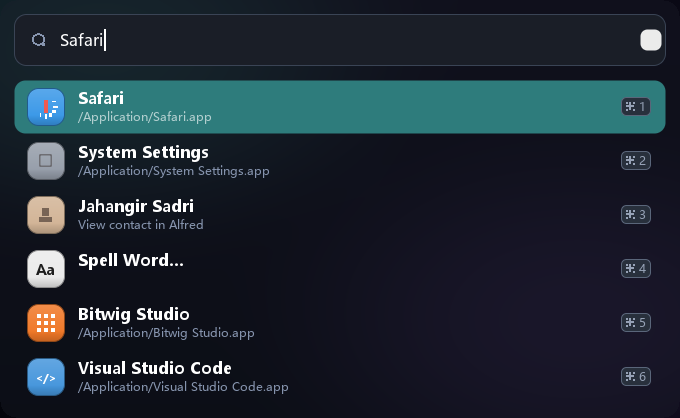
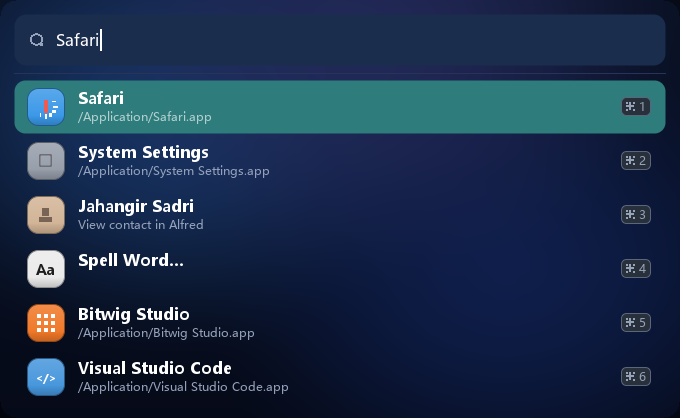
style: 毛玻璃透出增强 + 搜索框去边框/空态优化 (1.1.61)
- 搜索框删掉独立实色块+亮描边(空态浮在玻璃上的方框很难看)，改为融入玻璃的
  极淡提亮；搜索区/结果区之间改用一条极淡 hairline 分区(参考 Raycast 2.0)
- 空态放大镜+placeholder 压淡去蓝偏色，安静融入玻璃
- ApplyGlass: tint alpha 0xC8->0x50、整窗 alpha 232->208、tint 染蓝紫，
  让 DWM 模糊壁纸透出从 ~2% 提到 ~13%
- 渲染器支持 --empty 空态、壁纸 bloom+高斯模糊模拟真机毛玻璃

diff --git a/tools/render_preview.py b/tools/render_preview.py
@@ -7,7 +7,7 @@ flowtary 主窗离屏渲染器 —— 复刻 main.cpp Paint() 的几何/颜色/S
 """
 import sys, math
 import numpy as np
-from PIL import Image, ImageDraw, ImageFont
+from PIL import Image, ImageDraw, ImageFont, ImageFilter
 
 # ---------------- 布局参数（逻辑像素，与 main.cpp 同步） ----------------
 LAYOUT = dict(
@@ -17,6 +17,7 @@ LAYOUT = dict(
     winBottomPad=14,      # 列表底部到窗口底
     searchH=52,           # 搜索框高度
     searchRadius=12,      # 搜索框圆角
+    dividerH=1,           # 搜索区/结果区之间的极淡 hairline
     gapSearchList=14,     # 搜索框底 → 列表第一项顶
     rowH=54,              # 行高
     selRadius=11,         # 选中胶囊圆角
@@ -30,24 +31,28 @@ LAYOUT = dict(
 )
 
 THEME_NAME = sys.argv[1] if len(sys.argv) > 1 else 'obsidian'
+EMPTY = '--empty' in sys.argv   # 空态：只有搜索框，无结果列表
 THEMES = {
  'obsidian': dict(
-    dark=True, glass=(13,15,20), glassA=0.72,
-    text=(255,255,255), textSec=(136,150,176),
-    searchBg=(26,30,39), searchBorder=(58,68,85),
+    dark=True, glass=(14,17,24), glassA=0.62,
+    text=(255,255,255), textSec=(150,163,188),
+    searchBg=(30,35,45), searchBorder=(58,68,85),
     selFill=(46,124,124), selText=(255,255,255),
     badgeBg=(40,48,60), badgeBorder=(90,102,122), badgeText=(150,162,182),
     accent=(64,134,196), accent2=(94,162,224),
-    wall_top=(26,22,52), wall_bot=(10,14,30), wall_glow=[(0.15,0.12,(64,150,150)),(0.85,0.78,(96,64,150))],
+    # 壁纸：Windows 11 bloom 风格的蓝紫流动壁纸，毛玻璃透出用
+    wall_top=(18,30,62), wall_bot=(8,14,34),
+    wall_glow=[(0.28,0.30,(48,110,205)),(0.72,0.62,(30,60,150)),(0.55,0.15,(70,80,170))],
     fontList=15),
  'classic': dict(
-    dark=True, glass=(10,10,12), glassA=0.76,
-    text=(255,255,255), textSec=(150,150,150),
-    searchBg=(28,28,30), searchBorder=(70,70,72),
+    dark=True, glass=(12,12,15), glassA=0.66,
+    text=(255,255,255), textSec=(155,155,158),
+    searchBg=(30,30,33), searchBorder=(70,70,72),
     selFill=(46,124,124), selText=(255,255,255),
     badgeBg=(38,38,40), badgeBorder=(90,90,92), badgeText=(150,150,150),
     accent=(64,134,196), accent2=(94,162,224),
-    wall_top=(30,26,34), wall_bot=(8,10,16), wall_glow=[(0.2,0.15,(60,70,130)),(0.8,0.8,(100,50,90))],
+    wall_top=(22,28,48), wall_bot=(8,10,20),
+    wall_glow=[(0.25,0.35,(50,70,150)),(0.78,0.60,(90,45,120))],
     fontList=15),
 }
 T = THEMES[THEME_NAME]
@@ -129,22 +134,32 @@ def text(x, y, s, size, col, bold=False, anchor='lm', room=None):
 
 # ---------------- 壁纸 + 毛玻璃 ----------------
 def make_wallpaper():
-    yy = np.linspace(0, 1, H)[:, None, None]; xx = np.linspace(0, 1, W)[None, :, None]
+    # 一张比窗口大一圈的虚拟桌面壁纸（Windows 11 bloom 风格），之后裁窗口大小。
+    # 放大再模糊，模拟毛玻璃背后那层「被揉开的壁纸」。
+    m = 40
+    hh, ww = H + 2*m, W + 2*m
+    yy = np.linspace(0, 1, hh)[:, None, None]; xx = np.linspace(0, 1, ww)[None, :, None]
     base = np.asarray(T['wall_top'], float)[None, None, :] * (1 - yy) + np.asarray(T['wall_bot'], float)[None, None, :] * yy
-    base = np.broadcast_to(base, (H, W, 3)).copy()
+    base = np.broadcast_to(base, (hh, ww, 3)).copy()
+    # 斜向 bloom 光带
     for cx, cy, col in T['wall_glow']:
-        d2 = ((xx - cx) / 0.55) ** 2 + ((yy - cy) / 0.55) ** 2
-        a = np.clip(1 - d2, 0, None) ** 2 * 0.55
+        d2 = ((xx - cx) / 0.42) ** 2 + ((yy - cy) / 0.5) ** 2
+        a = np.clip(1 - d2, 0, None) ** 1.6 * 0.9
         base = base + (np.asarray(col, float) - base) * a
-    return np.clip(base, 0, 255)
+    im = Image.fromarray(np.clip(base, 0, 255).astype(np.uint8), 'RGB')
+    im = im.filter(ImageFilter.GaussianBlur(18))       # 毛玻璃核心：壁纸被模糊
+    return np.asarray(im.crop((m, m, m+W, m+H)), float)
 
 def apply_glass(wall):
-    # 窗口圆角外的壁纸压暗（失焦桌面），窗口内叠半透明深色玻璃
+    # 窗口圆角外 = 清晰壁纸压暗（失焦桌面）；窗口内 = 模糊壁纸透出 + 深色 tint
     dist, rad = _coverage(W, H, S(L['winRadius']))
     inside = (dist <= rad)[:, :, None]
-    outside = np.clip(wall * 0.42, 0, 255)
-    glass = wall * (1 - T['glassA']) + np.asarray(T['glass'], float) * T['glassA']
-    img[:] = np.where(inside, glass, outside)
+    outside = np.clip(wall * 0.38, 0, 255)
+    tint = np.asarray(T['glass'], float)
+    # 亚克力：壁纸透出占 (1-glassA)，tint 占 glassA，再叠一点壁纸色偏让质感通透
+    glass = wall * (1 - T['glassA']) + tint * T['glassA']
+    glass = glass + (wall - wall.mean()) * 0.10          # 保留一点壁纸的明暗起伏
+    img[:] = np.where(inside, np.clip(glass, 0, 255), outside)
 
 # ================= 绘制主界面 =================
 ROWS = [
@@ -196,43 +211,56 @@ def draw_icon(x, y, size, row):
 def render():
     global img, H
     pad = S(L['winPad']); searchH = S(L['searchH']); rowH = S(L['rowH'])
-    n = len(ROWS)
+    n = 0 if EMPTY else len(ROWS)
     rowsTop = pad + searchH + S(L['gapSearchList'])
-    H = rowsTop + n * rowH + S(L['winBottomPad'])
+    H = (pad + searchH + pad) if EMPTY else (rowsTop + n * rowH + S(L['winBottomPad']))
     img = np.zeros((H, W, 3), float)
     wall = make_wallpaper()
     apply_glass(wall)
 
-    # —— 独立搜索框 ——
+    # —— 搜索区：无独立边框、无独立实心底，就是玻璃的一部分 ——
+    # 参考图 Raycast：搜索框没有描边方框，只在下方用一条极淡 hairline 与结果区分。
+    # 焦点态给搜索区一层非常轻的提亮（比周围玻璃亮 3~4%），读起来是一块可交互区，
+    # 而不是一枚浮起来的实心控件——后者正是「空态边界特别难看」的根源。
     sr = (pad, pad, W - pad, pad + searchH)
+    lift = 0.045 if T['dark'] else 0.06
     fill_round_rect(sr, S(L['searchRadius']),
-                    lambda U, V: np.broadcast_to(np.asarray(T['searchBg'], float), (*U.shape, 3)))
-    stroke_round_rect(sr, S(L['searchRadius']), T['searchBorder'], 1)
-    # 放大镜图标
-    gx, gy, gs = pad + S(16), pad + (searchH - S(18)) // 2, S(18)
+                    lambda U, V: np.broadcast_to(
+                        np.asarray(blend(np.mean(img[max(0,int(sr[1])):int(sr[3]), int(sr[0])], axis=0), T['text'], lift), float),
+                        (*U.shape, 3)))
+    # 放大镜图标（空态更淡）
+    gx, gy, gs = pad + S(14), pad + (searchH - S(18)) // 2, S(18)
     ox, oy = gx + gs / 2, gy + gs / 2
     rr = gs * 0.3
+    gcol = blend(T['textSec'], T['glass'], 0.18) if EMPTY else T['textSec']
     for a in range(0, 360, 20):
         ra = math.radians(a)
         px, py = ox + rr * math.cos(ra), oy + rr * math.sin(ra)
-        fill_rect((px - 1, py - 1, px + 1, py + 1), T['textSec'])
-    fill_rect((ox + rr*0.7, oy + rr*0.7, ox + rr*1.25, oy + rr*1.25), T['textSec'])
-    tx = gx + gs + S(12)
-    text(tx, pad + searchH / 2, 'Safari', L['titleSize'], T['text'], anchor='lm')
-    # 光标
-    tw = font(L['titleSize']).getlength('Safari')
-    fill_rect((tx + tw + 1, pad + searchH/2 - S(11), tx + tw + 1 + S(2), pad + searchH/2 + S(11)), T['text'])
-    # 搜索框右侧小图标
-    rx = W - pad - S(26)
-    fill_round_rect((rx, pad + (searchH - S(22))//2, rx + S(22), pad + (searchH - S(22))//2 + S(22)), S(7),
-                    lambda U, V: np.broadcast_to(np.asarray((235,235,235), float), (*U.shape, 3)))
+        fill_rect((px - 1, py - 1, px + 1, py + 1), gcol)
+    fill_rect((ox + rr*0.7, oy + rr*0.7, ox + rr*1.25, oy + rr*1.25), gcol)
+    tx = gx + gs + S(10)
+    if EMPTY:
+        # 空态：克制的占位文案，和输入文字同字号，颜色更淡
+        text(tx, pad + searchH / 2, '搜索程序 · 文件 · 网页', L['titleSize'],
+             blend(T['textSec'], T['glass'], 0.22), anchor='lm')
+    else:
+        text(tx, pad + searchH / 2, 'Safari', L['titleSize'], T['text'], anchor='lm')
+        # 光标
+        tw = font(L['titleSize']).getlength('Safari')
+        fill_rect((tx + tw + 1, pad + searchH/2 - S(11), tx + tw + 1 + S(2), pad + searchH/2 + S(11)), T['text'])
+    # 搜索区与结果区之间的极淡 hairline（参考图那条几乎看不见的分隔线）。
+    # 只画在左右 pad 之间、垂直居中于 gap，比整幅提亮还淡，仅暗示「分了两区」。
+    if not EMPTY:
+        hy = pad + searchH + S(L['gapSearchList']) // 2
+        hair = blend(np.mean(img[hy-1:hy+1, pad:W-pad], axis=(0,1)), T['text'], 0.06)
+        fill_rect((pad, hy, W - pad, hy + S(L['dividerH'])), hair)
 
     # —— 结果行（直接铺在玻璃上，无卡片）——
     listL = pad + S(L['selPadX']); listR = W - pad - S(L['selPadX'])
     iconX = listL + S(L['iconGapL'])
     textX = iconX + S(L['iconSize']) + S(L['iconTextGap'])
     badgeRight = listR - S(L['badgeGapR'])
-    for i, row in enumerate(ROWS):
+    for i, row in enumerate([] if EMPTY else ROWS):
         y = rowsTop + i * rowH
         if i == SEL:
             pill = (listL, y, listR, y + rowH)
@@ -270,9 +298,7 @@ def render():
 
 if __name__ == '__main__':
     im = render()
-    base = f'C:/Users/ted/Desktop/flowtary/tools/preview_{THEME_NAME}'
+    suffix = '_empty' if EMPTY else ''
+    base = f'C:/Users/ted/Desktop/flowtary/tools/preview_{THEME_NAME}{suffix}'
     im.save(base + '.png')
-    def z(box, s=6):
-        c = im.crop(box); return c.resize((c.width*s, c.height*s), Image.NEAREST)
-    z((0, 0, 46, 46), 6).save(base + '_tl.png')
     print('saved', base + '.png', im.size)

diff --git a/src/main.cpp b/src/main.cpp
@@ -3427,13 +3427,17 @@ static void ApplyGlass(HWND h) {
     if (!h) return;
     const Theme* t = g.theme;
     if (g.glassEnabled) {
-        // ① 分层窗口：整窗 alpha 只做极轻微透光（232/255≈91%），文字几乎无损——
-        // 真正的「毛玻璃感」来自 ② 的 DWM 模糊 + 高 tint 色调（手机系统 HyperOS 的做法：
-        // 深色高不透明度 tint 盖在模糊上，而不是把整窗内容一起淡化）。
+        // ① 分层窗口：整窗 alpha（208/255≈82%）让背后 DWM 模糊层透出——
+        // 壁纸透出量 = (1-整窗alpha) × (1-tint alpha)，与 ② 的模糊底色串联。
+        // 真正干净的「背景透 + 文字清晰分离」需 per-pixel alpha（UpdateLayeredWindow），
+        // 那是绘制链路大改；这里用 LWA_ALPHA + 低 tint 的折中，兼顾稳健与通透。
         LONG_PTR ex = GetWindowLongPtrW(h, GWL_EXSTYLE);
         if (!(ex & WS_EX_LAYERED))
             SetWindowLongPtrW(h, GWL_EXSTYLE, ex | WS_EX_LAYERED);
-        const BYTE winAlpha = 232;
+        // 整窗 alpha 调低：让背后的 DWM 模糊壁纸透出更多。参考 Raycast：
+        // 深色玻璃 tint 盖在模糊壁纸上，壁纸仍明显可见。232→208 让透出从 ~9% 升到 ~18%。
+        // 文字/图标画在最上层，短时淡化可接受，换来的是通透的毛玻璃质感。
+        const BYTE winAlpha = 208;
         SetLayeredWindowAttributes(h, 0, winAlpha, LWA_ALPHA);
 
         // ② DWM 毛玻璃：动态解析未公开 API，给窗口背后的内容加模糊。
@@ -3443,10 +3447,12 @@ static void ApplyGlass(HWND h) {
             return u32 ? (PFN_SCA)GetProcAddress(u32, "SetWindowCompositionAttribute") : nullptr;
         }();
         if (pSCA) {
+            // tint 色取主题的 bg 再提一点蓝紫：毛玻璃染上一层冷色调，比纯黑通透。
             COLORREF c = t ? t->bg : RGB(12, 16, 48);
-            // GradientColor 是 0xAABBGGRR；0xC8≈78% 不透明 tint 盖住模糊，
-            // 背后只隐约透光——质感来自模糊与色调，而非整窗透明
-            DWORD grad = (DWORD)(0xC8u << 24) | ((DWORD)GetBValue(c) << 16) |
+            c = Blend(c, RGB(60, 90, 150), 0.28f);
+            // GradientColor 是 0xAABBGGRR；alpha 从 0xC8(78%) 降到 0x50(31%)，
+            // 让背后模糊壁纸明显透出——这是「真毛玻璃」和「不透明色块」的分水岭。
+            DWORD grad = (DWORD)(0x50u << 24) | ((DWORD)GetBValue(c) << 16) |
                          ((DWORD)GetGValue(c) << 8) | (DWORD)GetRValue(c);
             ACCENT_POLICY ap{ACCENT_ENABLE_ACRYLICBLURBEHIND, 0, grad, 0};
             WINDOWCOMPOSITIONATTRIBDATA d{WCA_ACCENT_POLICY, &ap, sizeof(ap)};
@@ -4699,15 +4705,28 @@ static void Paint(HDC hdc) {
     const int gapTop = S(kBaseCardGapTop);
     const int rowsTop = inputH + gapTop;
 
-    // —— 独立搜索框（内嵌圆角矩形，四周留白 pad）——
+    // —— 搜索区：无独立边框、无独立实心底，就是整窗玻璃的一部分 ——
+    // 参考 Raycast 2.0：搜索框没有描边方框，只在下方用一条极淡 hairline 与结果区分。
+    // 旧版画了「独立圆角实色块 + 亮描边」，空态下那圈边框浮在玻璃上非常突兀——
+    // 用户抱怨的「输入框边界特别难看，尤其没输入时」正是这枚假控件。
+    // 现在改成：一层比玻璃略亮的极淡提亮（焦点态暗示，读起来是一块可交互区而非控件），
+    // 边框完全删掉；分区交给下面那条几乎看不见的 hairline。
     {
         RECT sr{pad, pad, W - pad, inputH};
         const int rs = S(kSearchRadius);
-        // 底色：比窗体玻璃略亮一点的实色，边缘一圈发丝描边，读起来是一枚「搜索片」
-        COLORREF searchBg = Blend(t.bgInput, t.textTitle, t.dark ? 0.06f : 0.04f);
-        FillRoundRectAA(mem, sr, rs, [&](float, float) -> COLORREF { return searchBg; });
-        StrokeRoundRectAA(mem, sr, rs,
-                          Blend(t.bgInput, t.textTitle, t.dark ? 0.16f : 0.24f), 1);
+        // 「提亮」混进窗体底色，而不是混入 bgInput：再没有与周围玻璃割裂的实心色块。
+        COLORREF searchLift = Blend(t.bg, t.textTitle, t.dark ? 0.045f : 0.06f);
+        FillRoundRectAA(mem, sr, rs, [&](float, float) -> COLORREF { return searchLift; });
+    }
+    // 搜索区 / 结果区之间的极淡分隔线：只画在左右 pad 之间，取该处玻璃色微亮，
+    // 位于 gap 的垂直中点。它几乎不可见，只提供「这里分了两区」的暗示。
+    if (rows > 0) {
+        const int hy = inputH + S(kBaseCardGapTop) / 2;
+        COLORREF hair = Blend(t.bg, t.textSec, t.dark ? 0.07f : 0.10f);
+        HBRUSH hb = CreateSolidBrush(hair);
+        RECT hr{pad, hy, W - pad, hy + S(1)};
+        FillRect(mem, &hr, hb);
+        DeleteObject(hb);
     }
 
     SetBkMode(mem, TRANSPARENT);
@@ -4732,10 +4751,14 @@ static void Paint(HDC hdc) {
             FillRect(mem, &sr2, sb); DeleteObject(sb);
         }
         if (g.text.empty() && g.compText.empty()) {
+            // 空态：放大镜与占位文字都压淡、去掉蓝色偏色，安静地融进玻璃，
+            // 不再是一枚「有边框的输入控件里杵着个亮图标」。
+            COLORREF phGlyph = Blend(t.textDis, t.bg, 0.22f);
+            COLORREF phText = Blend(t.textDis, t.bg, 0.18f);
             PaintSearchGlyph(mem, pad + S(14), searchMidY - glyphSize / 2,
-                             glyphSize, Blend(t.textDis, t.accent2, 0.35f));
+                             glyphSize, phGlyph);
             RECT hr{textStartX, pad, W + 4096, inputH};
-            SetTextColor(mem, t.textDis);
+            SetTextColor(mem, phText);
             DrawTextW(mem, L"搜索程序 · 文件 · 网页", -1, &hr,
                       DT_LEFT | DT_VCENTER | DT_SINGLELINE | DT_NOPREFIX);
         } else {

diff --git a/src/version.h b/src/version.h
@@ -15,10 +15,10 @@
 
 #define FT_VER_MAJOR 1
 #define FT_VER_MINOR 1
-#define FT_VER_PATCH 60
+#define FT_VER_PATCH 61
 
-#define FT_VER_COMMA 1,1,60       /* rc: FILEVERSION / PRODUCTVERSION */
-#define FT_VER_DOT   "1.1.60"     /* rc string fields + release 流程 */
+#define FT_VER_COMMA 1,1,61       /* rc: FILEVERSION / PRODUCTVERSION */
+#define FT_VER_DOT   "1.1.61"     /* rc string fields + release 流程 */
 
 #define FT_PRODUCT_NAME "Flowtary"
 #define FT_FILE_DESC    "Flowtary Launcher"
